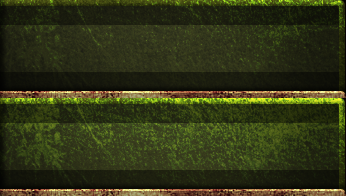
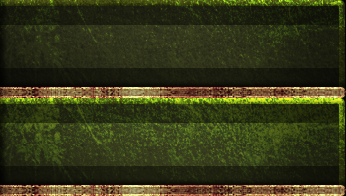
[147] Minor Graphical Improvements

diff --git a/assets/stylesheets/main.css b/assets/stylesheets/main.css
@@ -426,8 +426,8 @@ ul.top_voters_list li span i {font-style: normal;font-weight: normal;font-size: 
 #user_control p { display: block; margin: 0 0 0 23px; padding: 29px 0 0 0; }
 #user_control span { color: #b5ca2c; font-weight: bold; }
 #user_control a:hover span { color: #fff; }
-#user_control_deco {background: url(../images/user-control-deco.png) 100% 100% no-repeat;bottom: 7px;height: 183px;position: absolute;right: 0;width: 181px;margin-right: -27px;}
-#user_control_deco-logged {background: url(../images/user-control-deco-logged.png) 100% 100% no-repeat;bottom: 7px;height: 183px;position: absolute;right: 0;width: 181px;margin-right: -27px;}
+#user_control_deco {background: url(../images/user-control-deco.png) 100% 100% no-repeat;bottom: 11px;height: 183px;position: absolute;right: 0;width: 181px;margin-right: -27px;}
+#user_control_deco-logged {background: url(../images/user-control-deco-logged.png) 100% 100% no-repeat;bottom: 10px;height: 183px;position: absolute;right: 0;width: 181px;margin-right: -27px;}
 #user_control-log { background: url(../images/user-control-log.png) 0 0 no-repeat; color: #8e9469; font-size: 1.15em; height: 98px; position: relative; }
 #user_control-log:hover { background: url(../images/user-control-log.png) 0 100% no-repeat; }
 #user_control-log a { color: #8e9469; display: block; height: 98px; text-decoration: none;}

diff --git a/assets/stylesheets/forums.css b/assets/stylesheets/forums.css
@@ -120,3 +120,4 @@ form.post_topic_reply label textarea {  display: inline-block;  float: none;  wi
 textarea.bbcode {  width: 816px;  height: auto;  min-height: 350px;  text-align: left;}
 textarea {  resize: none !important;  font-family: 'Ebrima';  font-size: 14px;  text-shadow: 0 0 5px rgba(0,0,0,.15), 1px 0px 1px rgba(0,0,0,.25);  color: #40342e;  border: none;  -webkit-border-radius: 3px;  -moz-border-radius: 3px;  border-radius: 3px;  width: auto;  height: auto;  padding: 10px;  background: rgba(0,0,0,.20);  box-shadow: inset 1px 1px 2px rgba(0,0,0,.25), inset 0 0 10px rgba(0,0,0,.10), 1px 1px 0 rgba(54,45,40,.25);  transition: all 300ms;  -moz-transition: all 300ms;  -webkit-transition: all 300ms;  -o-transition: all 300ms;}
 .forum_row:hover {box-shadow: 0 0 11px rgba(0,0,0,.3), 0 1px 3px rgba(0,0,0,.5), inset 0 0 0 1px rgba(255,255,255,.03), inset 0 0 0 80px rgba(255,255,204,.008);}
+.fix_forum_warning {margin: 8px 0px 6px 3px!important;width: 977px!important;}
